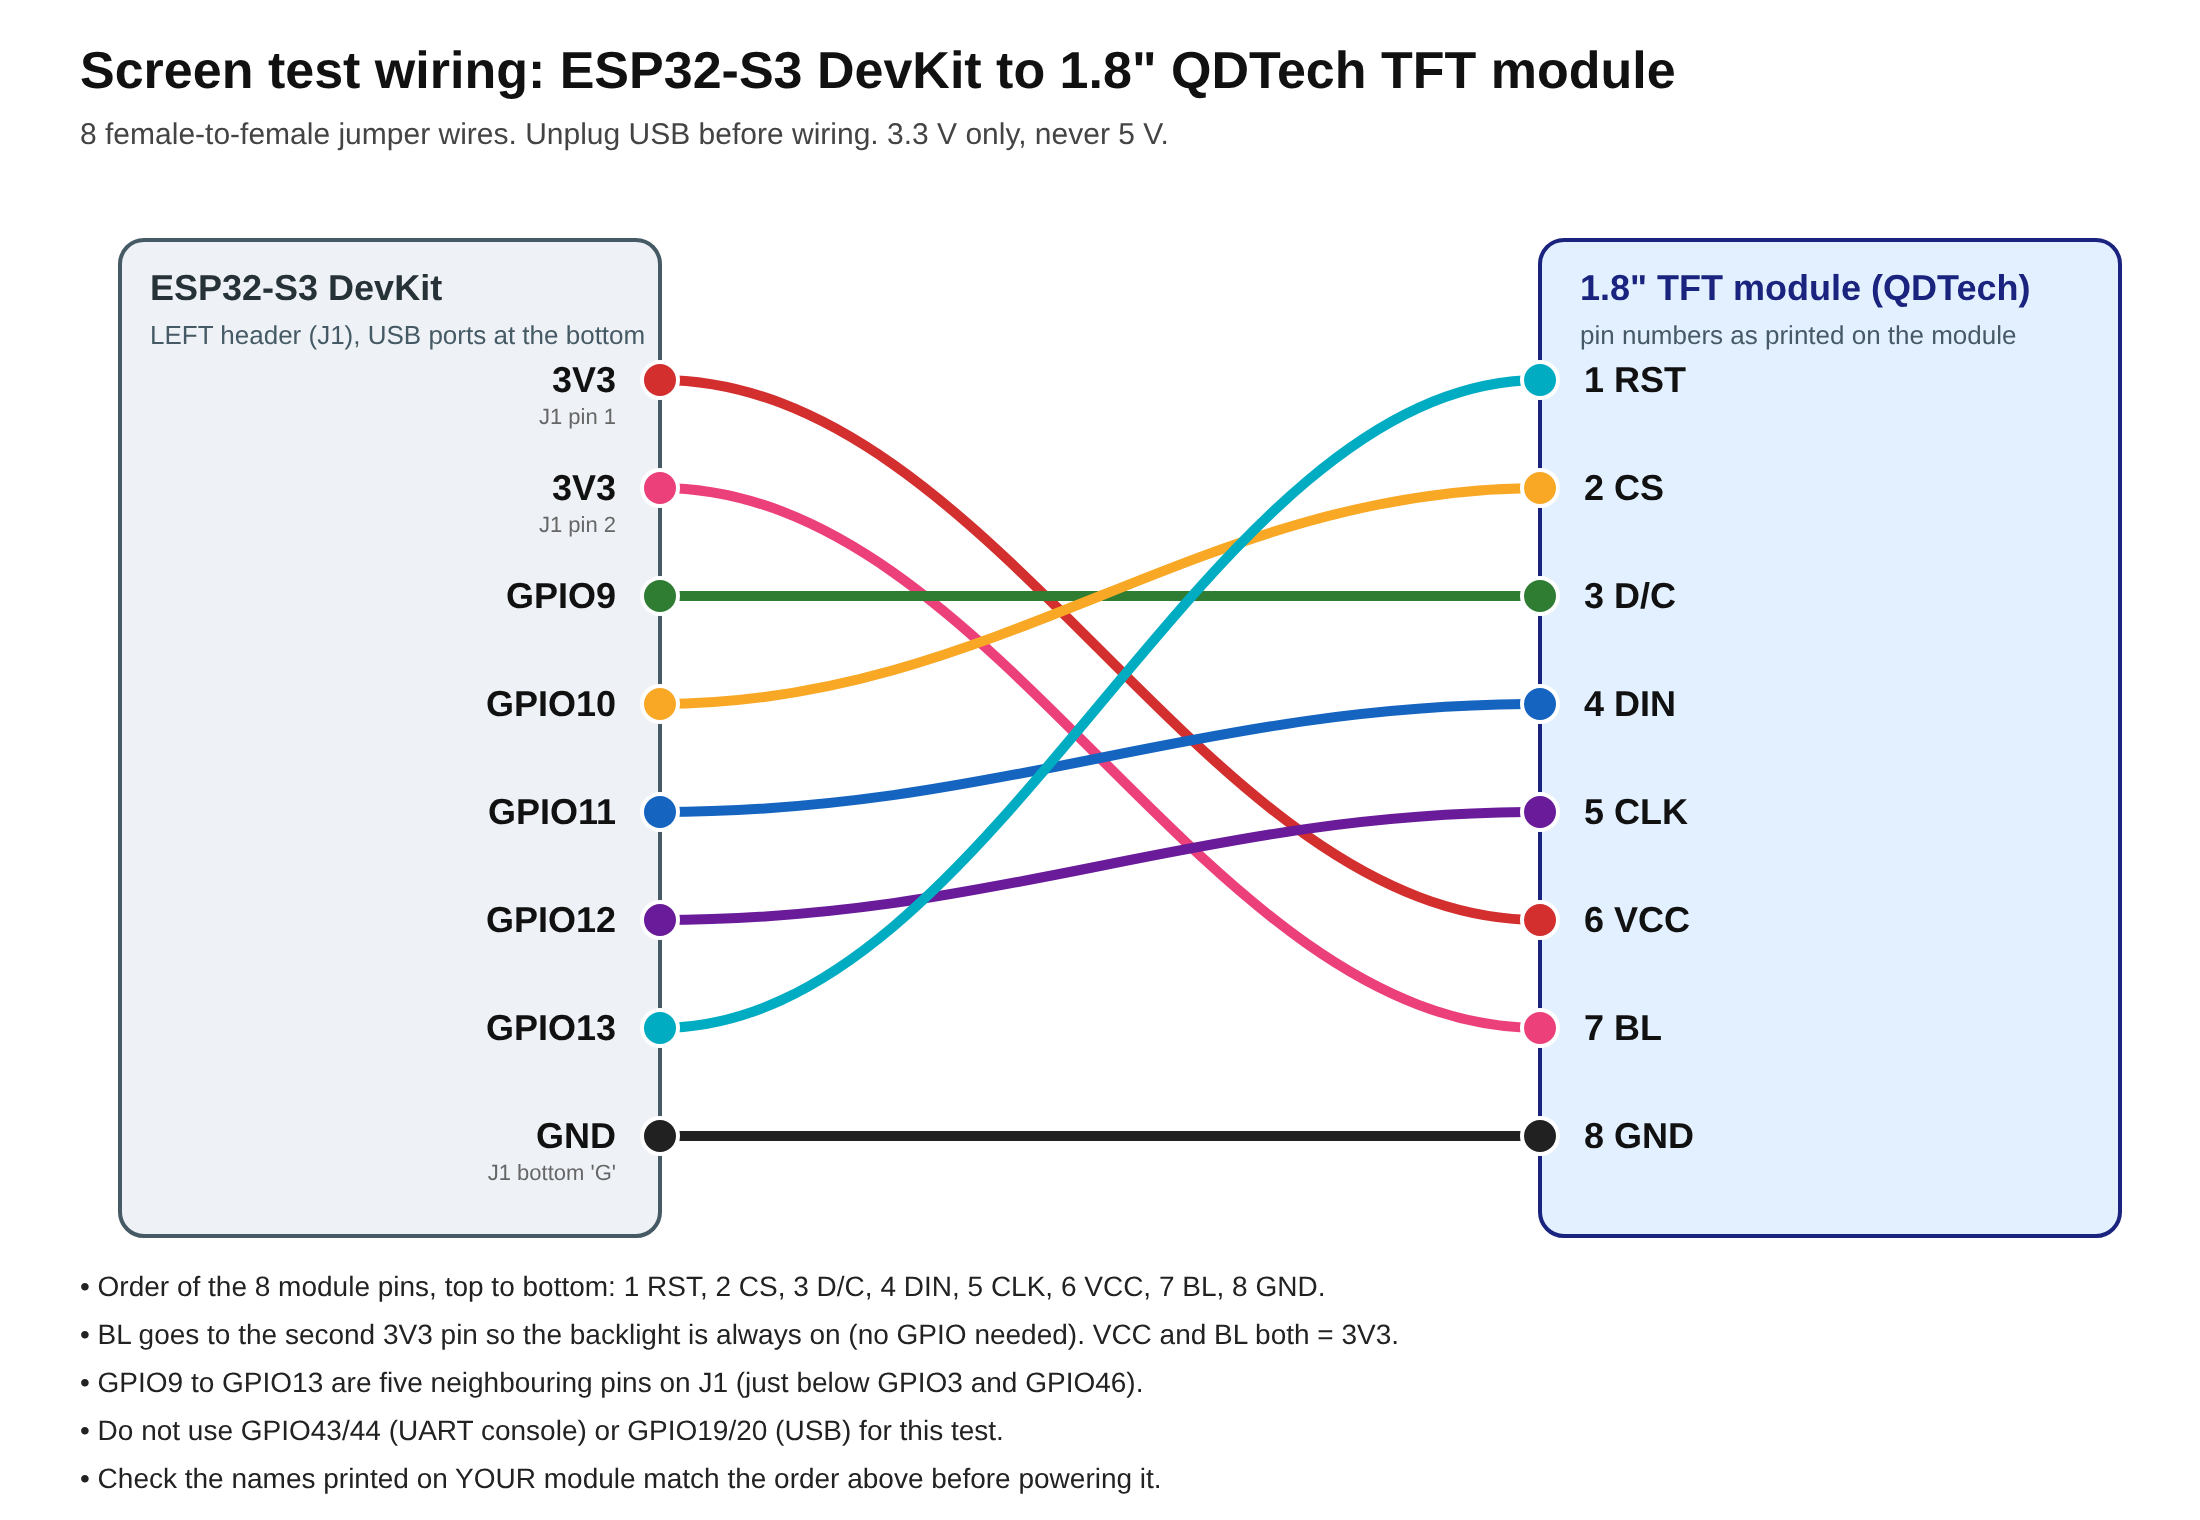
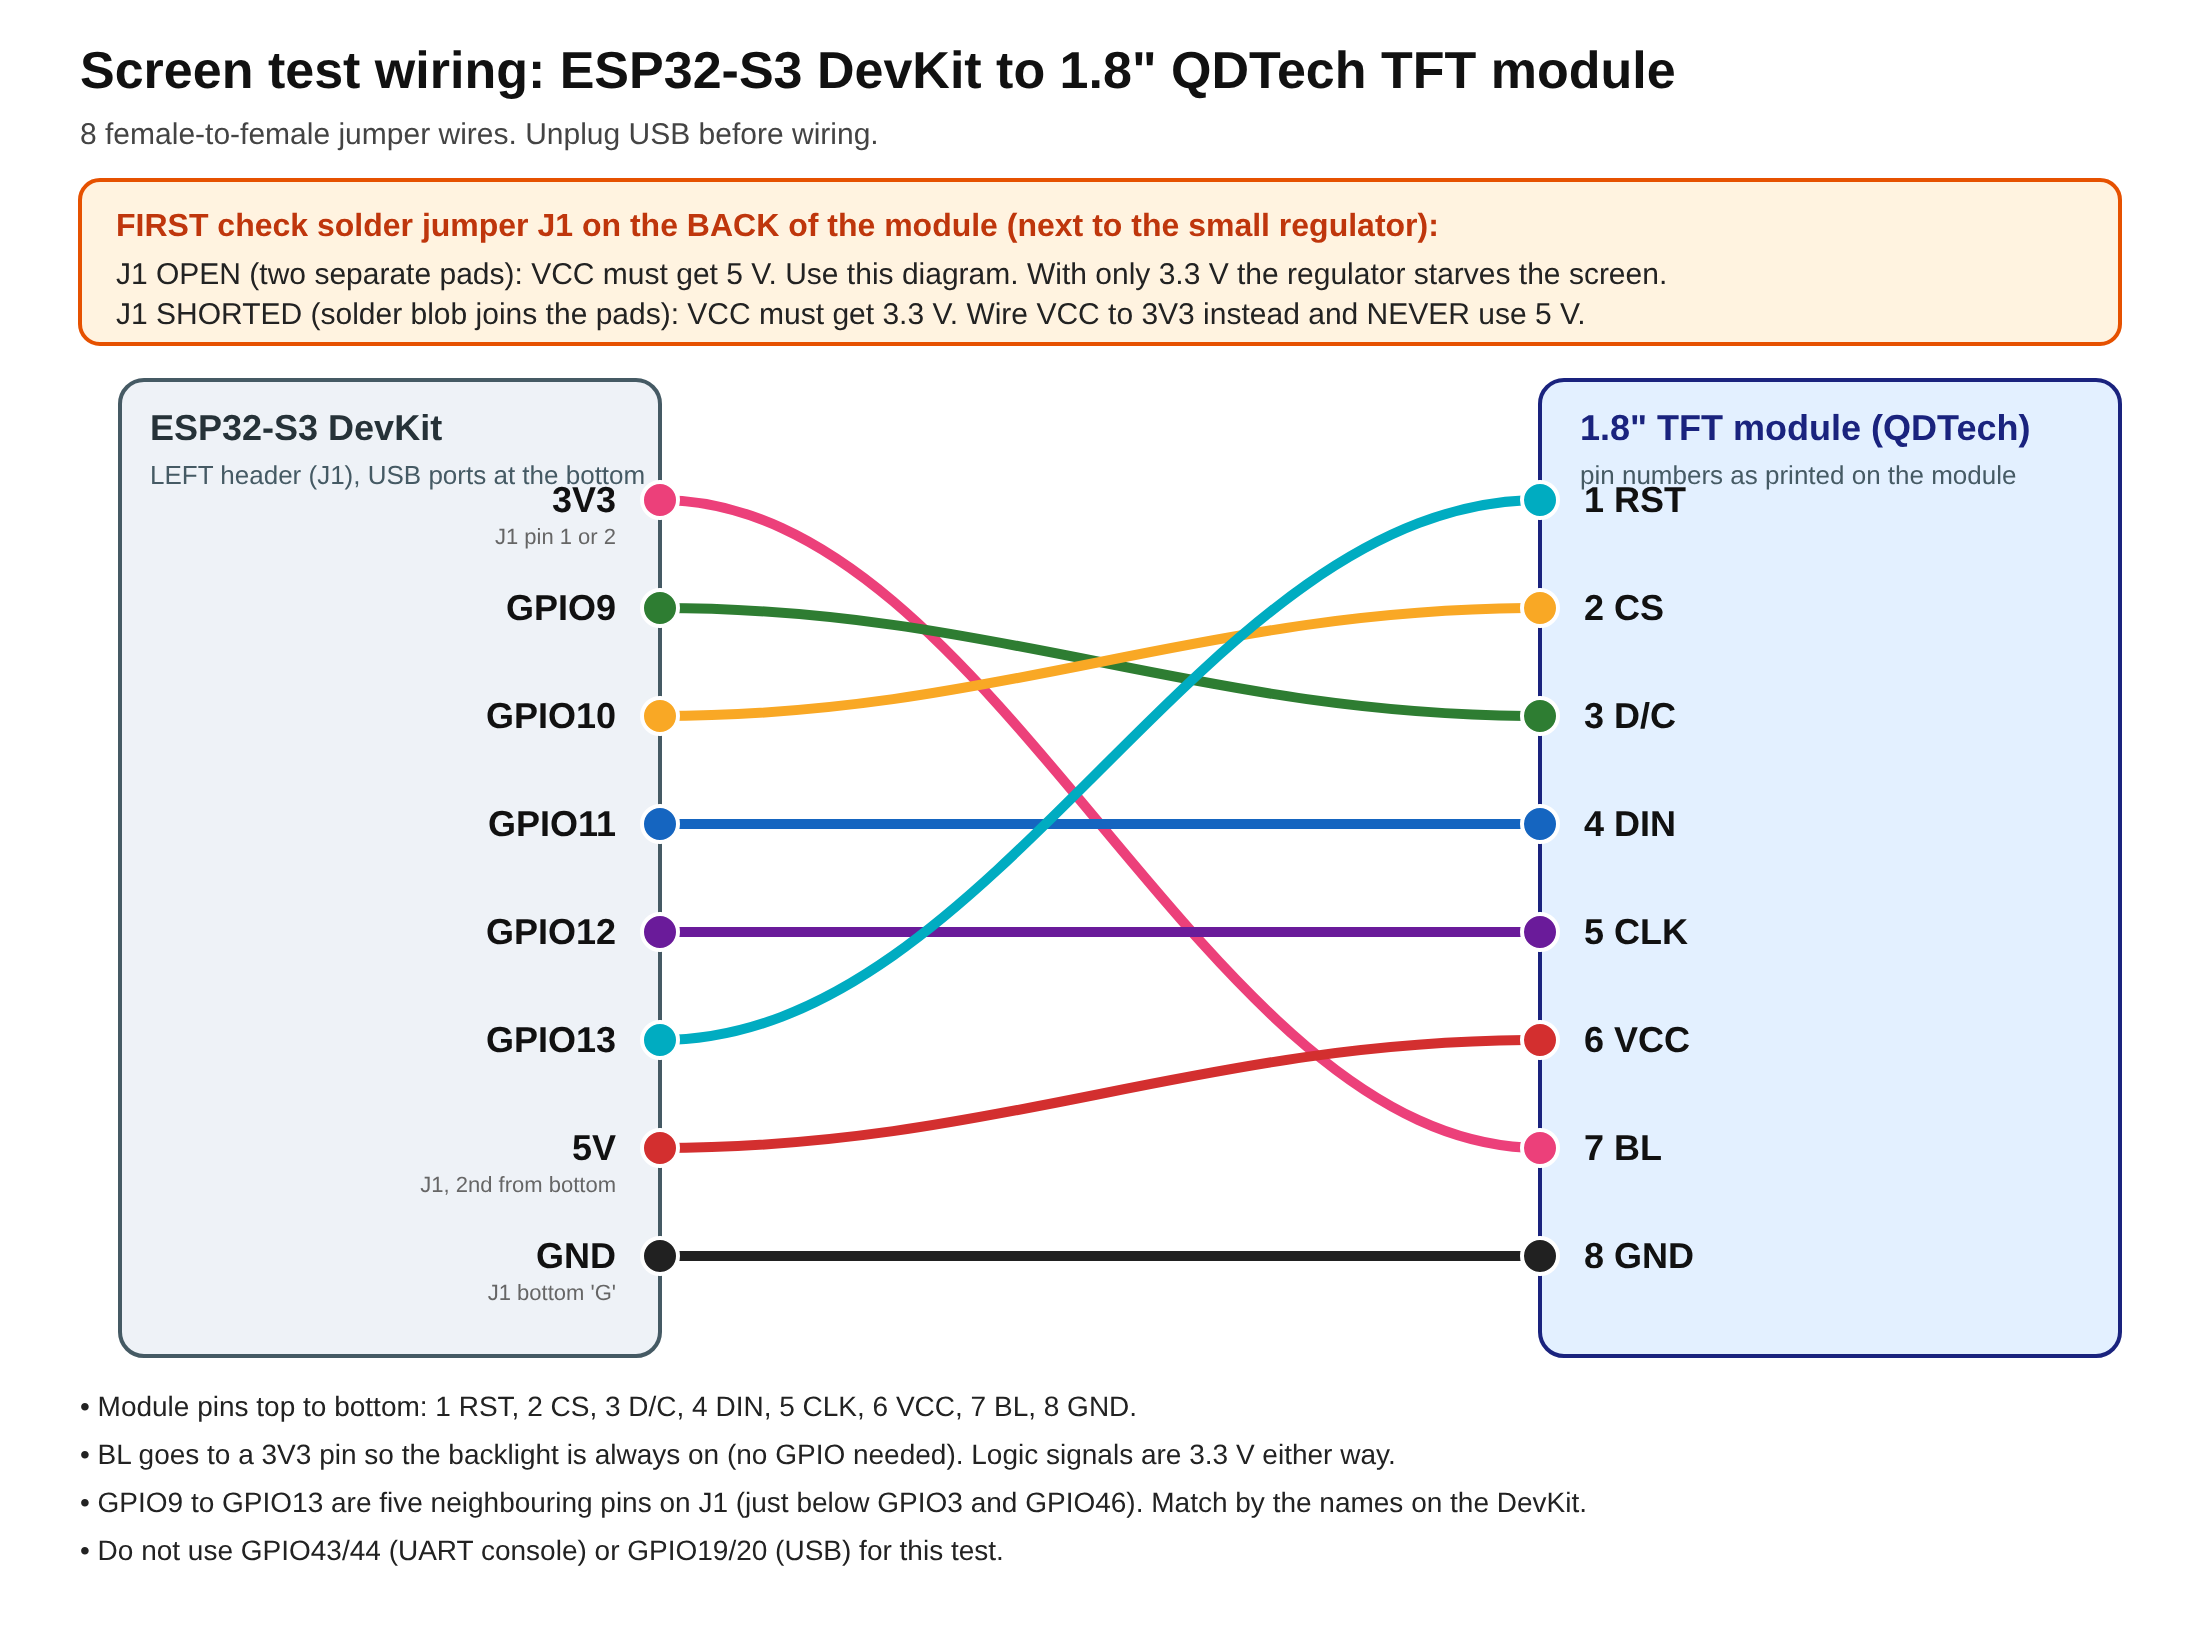
screen_test: VCC from 5V when J1 open (module has regulator); updated wiring diagram

diff --git a/screen_test/README.md b/screen_test/README.md
@@ -5,6 +5,12 @@ Purpose: prove the screen itself works, with no expansion board in the way. Noth
 The module is a **QDTech 1.8" 128x160 with a Samsung S6D02A1 controller** (pins printed on the module: 1 RST, 2 CS, 3 D/C, 4 DIN, 5 CLK, 6 VCC, 7 BL, 8 GND).
 The driver is a port of [zigwart/Adafruit_QDTech](https://github.com/zigwart/Adafruit_QDTech) (MIT, based on Adafruit's ST7735 library): same init sequence, ESP32 SPI instead of AVR registers. It also lets you try the plain Adafruit ST7735 init for comparison.
 
+## FIRST: check solder jumper J1 on the module's back
+The module has a small regulator and a solder jumper **J1** (printed box: `VCC=5V + J1 OPEN`, `VCC=3.3V + J1 SHORT`).
+- **J1 open** (two separate pads, the usual state): feed VCC with **5 V**. With only 3.3 V the regulator starves the screen: backlight on, nothing on the display.
+- **J1 shorted** (solder joins the pads): feed VCC with **3.3 V** and never 5 V.
+Signal pins stay 3.3 V logic either way. Check J1 with a multimeter in continuity mode if you are not sure.
+
 ## Wiring: 8 female-to-female jumpers, USB unplugged
 
 ![wiring](wiring.png)
@@ -16,11 +22,11 @@ The driver is a port of [zigwart/Adafruit_QDTech](https://github.com/zigwart/Ada
 | 3 D/C | GPIO9 |
 | 4 DIN | GPIO11 |
 | 5 CLK | GPIO12 |
-| 6 VCC | 3V3 (J1 pin 1) |
-| 7 BL | 3V3 (J1 pin 2) |
+| 6 VCC | **5V** if J1 is open (3V3 if J1 is shorted) |
+| 7 BL | 3V3 |
 | 8 GND | GND |
 
-GPIO9 to GPIO13 sit next to each other on the DevKit's left header (J1), after GPIO3 and GPIO46. Match by the names printed on the DevKit. 3.3 V only.
+GPIO9 to GPIO13 sit next to each other on the DevKit's left header (J1), after GPIO3 and GPIO46. Match by the names printed on the DevKit.
 
 ## Flash
 ```bash
@@ -42,5 +48,5 @@ Keys in the monitor: `1` QDTech init (default), `2` `3` `4` plain ST7735 init (b
 | Works with `1` but not `2` to `4` | It is the S6D02A1 controller, so use the QDTech driver. |
 | Works with `2` but not `1` | It is an ST7735, so use the Adafruit ST7735 driver. |
 | Colours wrong (red shows blue) | Controller is right, only colour order differs. Tell us. |
-| Backlight only, nothing else, on `1` to `4` | Check wires 1 to 5 one by one, then the module. |
+| Backlight only, nothing else, on `1` to `4` | Check VCC first (J1 rule above), then wires 1 to 5 one by one. |
 | Nothing lights at all | Check VCC, BL and GND wires, and the 3V3 pins. |
